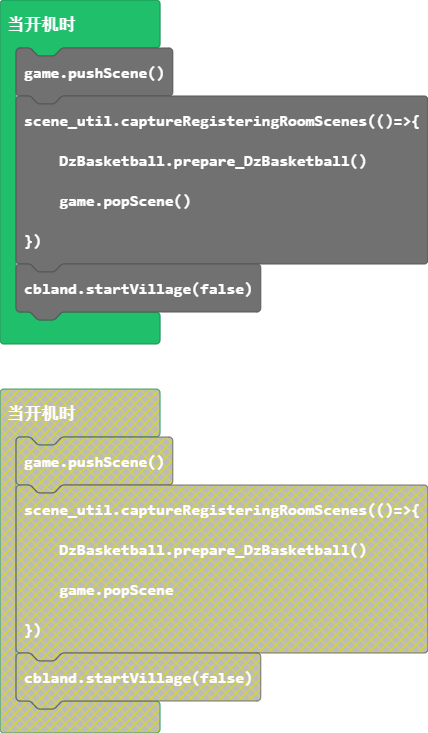
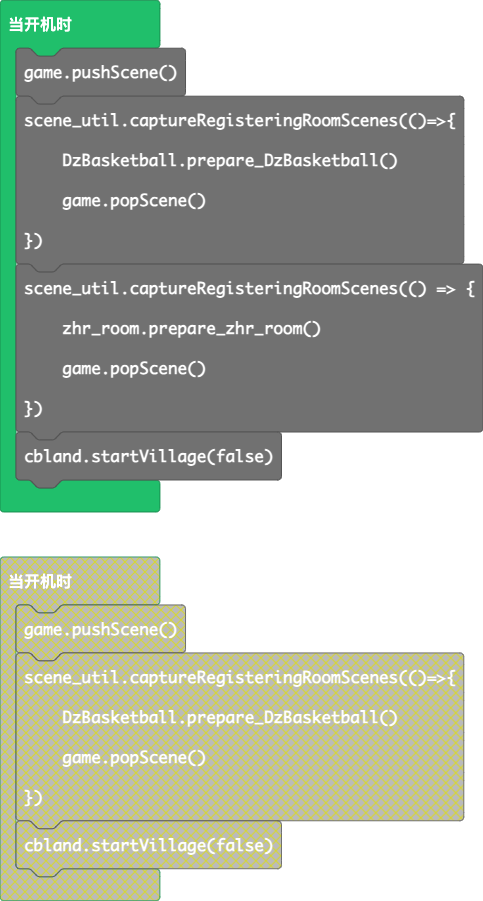
更新 pxt.json, main.blocks, main.ts

diff --git a/main.ts b/main.ts
@@ -3,4 +3,8 @@ scene_util.captureRegisteringRoomScenes(()=>{
     DzBasketball.prepare_DzBasketball()
     game.popScene()
 })
+scene_util.captureRegisteringRoomScenes(() => {
+    zhr_room.prepare_zhr_room()
+    game.popScene()
+})
 cbland.startVillage(false)
